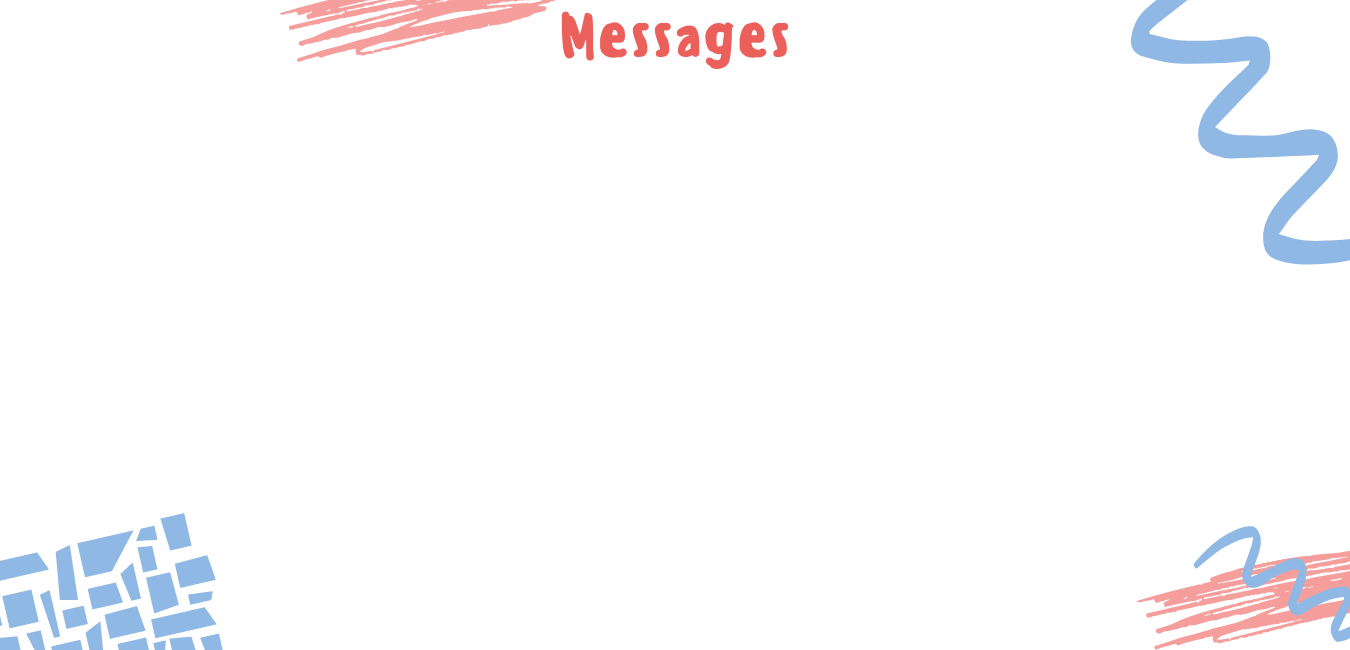
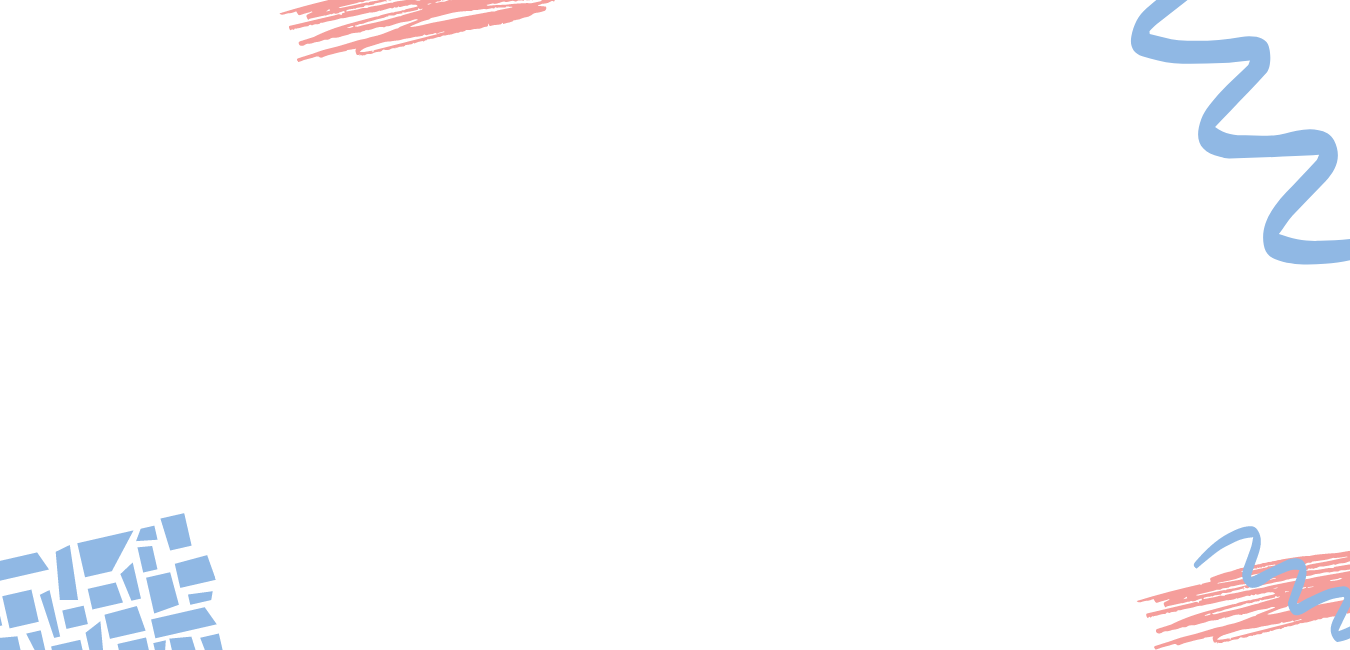
IT WORKS!!!!!

Changed region(s): [[0.4044, 0.0, 0.5911, 0.1231]]

diff --git a/templates/message.html b/templates/message.html
@@ -9,13 +9,21 @@
 	<link href="https://fonts.googleapis.com/css2?family=Lato:wght@300;400&display=swap" rel="stylesheet">
 
 	<link rel="stylesheet" href="/static/message.css">
+
+  <script src="https://cdnjs.cloudflare.com/ajax/libs/socket.io/4.0.1/socket.io.js" integrity="sha512-q/dWJ3kcmjBLU4Qc47E4A9kTB4m3wuTY7vkFJDTZKjTs8jhyGQnaUrxa0Ytd0ssMZhbNua9hE+E7Qv1j+DyZwA==" crossorigin="anonymous"></script>
 </head>
 
 <body class='text-center'>
-  <a href="profile" class='p-2 border-2 border-white rounded-lg absolute text-4xl hover:bg-black transition-colors' id='logout'
-	 style="color: #eb605b">Leave</a>
-     
-  <script>
-  </script>
+   <img src="/static/images/bluebackarrow.png" alt="back" class='w-24 absolute left-0 top-0 m-6 cursor-pointer text-black' id='back' onclick='window.location.href="/profile"'>
+   <main class='h-full flex flex-col'>
+     <h1 class='text-7xl text-center w-full'>{{palName}}</h1>
+     <center class='flex-grow pt-20'><div id="texts" class='flex flex-col w-1/2'></div></center>
+     <div class='pb-6'>
+       <input id='typing' type="text" class='w-2/6 border-black border-2 rounded-full text-2xl outline-none p-2 px-4' placeholder="Type something...">
+     </div>
+
+
+   </main>
+  <script src='/static/message.js'></script>
 </body>
 </html>

diff --git a/static/message.js b/static/message.js
@@ -1,0 +1,25 @@
+var socket = io();
+socket.on('connect', parts => {
+  if (!parts) return;
+  console.log(parts);
+  let {texts, senders} = parts;
+  for (let i = 0; i < texts.length; i++) makeText(senders[i] == 's', texts[i]);
+});
+
+let typing = document.getElementById('typing');
+typing.addEventListener('keydown', e => {
+  console.log('keydown', e.keyCode);
+  if (e.keyCode == 13){
+    socket.emit('newMessage', typing.value);
+    typing.value = '';
+  }
+});
+
+socket.on('message', parts => {
+  makeText(parts.sent, parts.text);
+})
+
+function makeText(sent, text){
+  console.log('TEXT', text);
+  document.getElementById('texts').innerHTML += `<p class="text self-${sent ? 'end' : 'start'} p-6 rounded-2xl text-xl bg-${sent ? 'blue-300' : 'gray-300'} mb-1" ${sent ? '' : 'style="background-color: #f59e9b"'}>${text}</p>`
+}

diff --git a/templates/profile.html b/templates/profile.html
@@ -14,9 +14,9 @@
 </head>
 
 <body class='text-center'>
-	<a onclick="logout()" class='p-2 border-2 border-white rounded-lg absolute text-4xl hover:bg-black transition-colors' id='logout'
+	<a onclick="logout()" class='p-2 border-2 border-white rounded-lg absolute text-4xl hover:bg-black transition-colors cursor-pointer' id='logout'
 	 style="color: #eb605b">Log Out</a>
-	<h1 class='text-7xl text-left absolute' style="left: 41vw; top: 5rem;">Hello {{name}}</h1>
+	<h1 class='text-7xl text-left absolute' style="left: 41vw; top: 5rem;">Hello {{name}}!</h1>
   <div id='picture' class='absolute p-4 rounded-full bg-blue-400 w-28 h-28 flex justify-center items-center'>
      <img src='/static/images/profile pics/{{profpic}}.png' class='h-full'>
   </div>

diff --git a/static/message.css b/static/message.css
@@ -19,3 +19,6 @@ h1 {
   color: #eb605b;
   position: absolute;
 }
+.text {
+  max-width: 30vw;
+}

diff --git a/main.py b/main.py
@@ -1,7 +1,7 @@
 from flask import Flask, render_template, request, redirect, make_response
 from flask_socketio import SocketIO, send, emit
 from random import choice
-from db import db, addUser, getProfilePicture, getPalUsername, makePals
+from db import db, addUser, getProfilePicture, getPalUsername, makePals, getPrevMessages, registerMessage
 import deta
 from deta import Deta
 import random
@@ -10,13 +10,7 @@ app = Flask(__name__)
 app.static_folder = 'static'
 socketio = SocketIO(app)
 
-number_list = [
-    100, 101, 200, 201, 202, 204, 206, 207, 300, 301, 302, 303, 304, 305, 307,
-    400, 401, 402, 403, 404, 405, 406, 408, 409, 410, 411, 412, 413, 414, 415,
-    416, 417, 418, 421, 422, 423, 424, 425, 426, 429, 431, 444, 450, 451, 500,
-    502, 503, 504, 506, 507, 508, 509, 510, 511, 599
-]
-
+allPeople = {}
 
 @app.after_request
 def add_header(r):
@@ -38,6 +32,8 @@ def index():
 
 @app.route('/login')
 def login():
+    name = request.cookies.get('user')
+    if name: return redirect('/profile')
     return render_template('login.html')
 
 
@@ -52,12 +48,13 @@ def profile():
 @app.route('/message')
 def message():
     name = request.cookies.get('user')
-    if not name:
-        return redirect('/')
+    if not name: return redirect('/')
     profpic = getProfilePicture(name)
     palName = getPalUsername(name)
+    if not palName: return redirect('/')
     partnerProfpic = getProfilePicture(palName)
-    return render_template('message.html', name=name, profpic=profpic)
+    
+    return render_template('message.html', name=name, profpic=profpic, palName=palName, palPic=partnerProfpic)
 
 
 @app.route('/signin', methods=['POST'])
@@ -71,7 +68,7 @@ def signin():
         addUser(name, randomProf, request.form['password'])
         allAccounts = db.fetch()
         for i in allAccounts.items:
-          if i['value'][0] == None:
+          if i['value'][0] == None and i['key'] != name:
             makePals(name, i['key'])
     return resp
 
@@ -82,22 +79,30 @@ def logout():
     resp.set_cookie('user', '', expires=0)
     return resp
 
+@socketio.on('connect')
+def connect():
+  name = request.cookies.get('user')
+  messages, senders = getPrevMessages(name)
+  data = {
+    "texts": messages,
+    "senders": senders
+  }
+  emit('connect', data)
+  allPeople[name] = request.sid
 
-@app.route('/user/', defaults={'username': None})
-@app.route('/user/<username>')
-def generate_user(username):
-    if not username:
-        username = request.args.get('username')
+@socketio.on('newMessage')
+def newMessage(text):
+  name = request.cookies.get('user')
+  palName = getPalUsername(name)
+  if (palName in allPeople):
+    emit('message', {"sent": False, "text": text}, room = allPeople[palName])
+  emit('message', {"sent": True, "text": text})
+  registerMessage(name, palName, text)
 
-    if not username:
-        return 'Sorry error something, malformed request.'
-
-    return render_template('personal_user.html', user=username)
-
-
-@app.route('/page')
-def random_page():
-    return render_template('page.html', code=choice(number_list))
-
+@socketio.on('disconnect')
+def test_disconnect():
+  name = request.cookies.get('user')
+  del allPeople[name]
+  print('Client disconnected', name)
 
 socketio.run(app, host='0.0.0.0', port=8080, debug=True)

diff --git a/db.py b/db.py
@@ -85,6 +85,7 @@ registerMessage("bob", "lkewrghn jkersb", "no u")
 print(getPalUsername("username"))
 print(getPrevMessages("bob"))
 print(getPrevMessages("lkewrghn jkersb"))
-print(getProfilePicture("bob"))"""
+print(getProfilePicture("bob"))
+"""
 
 
